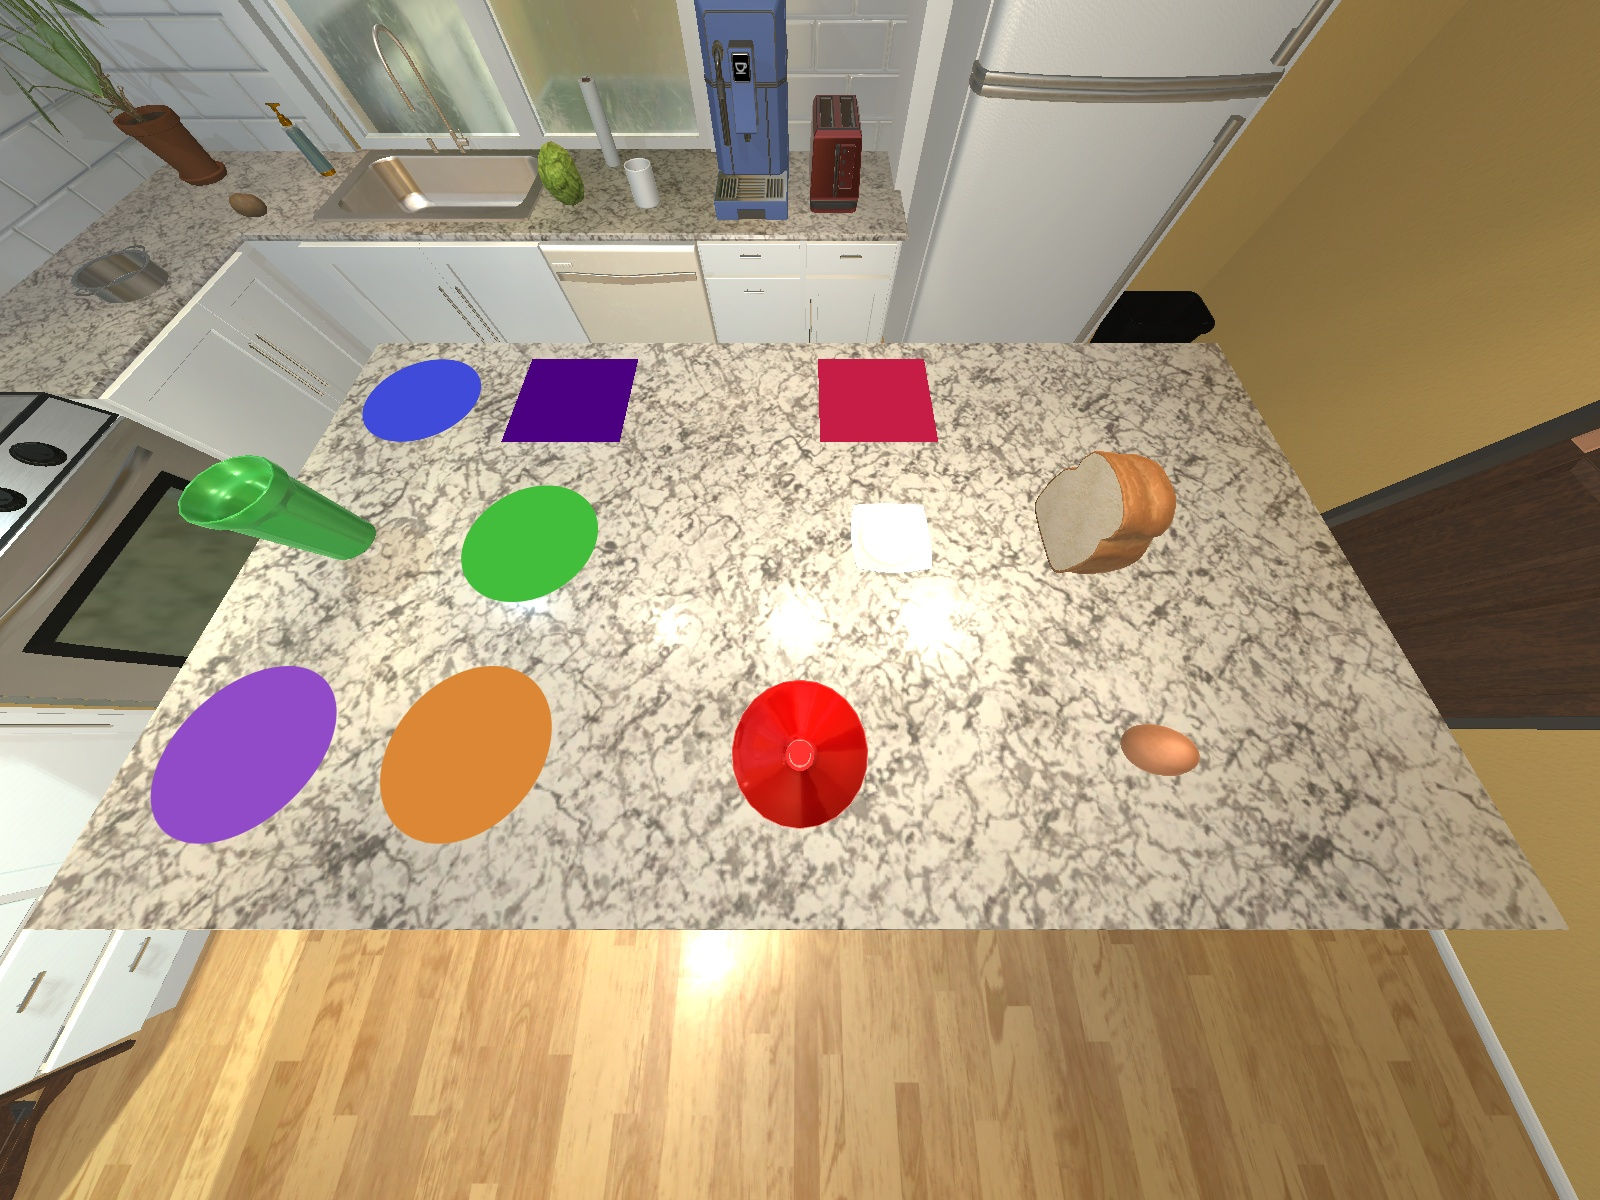
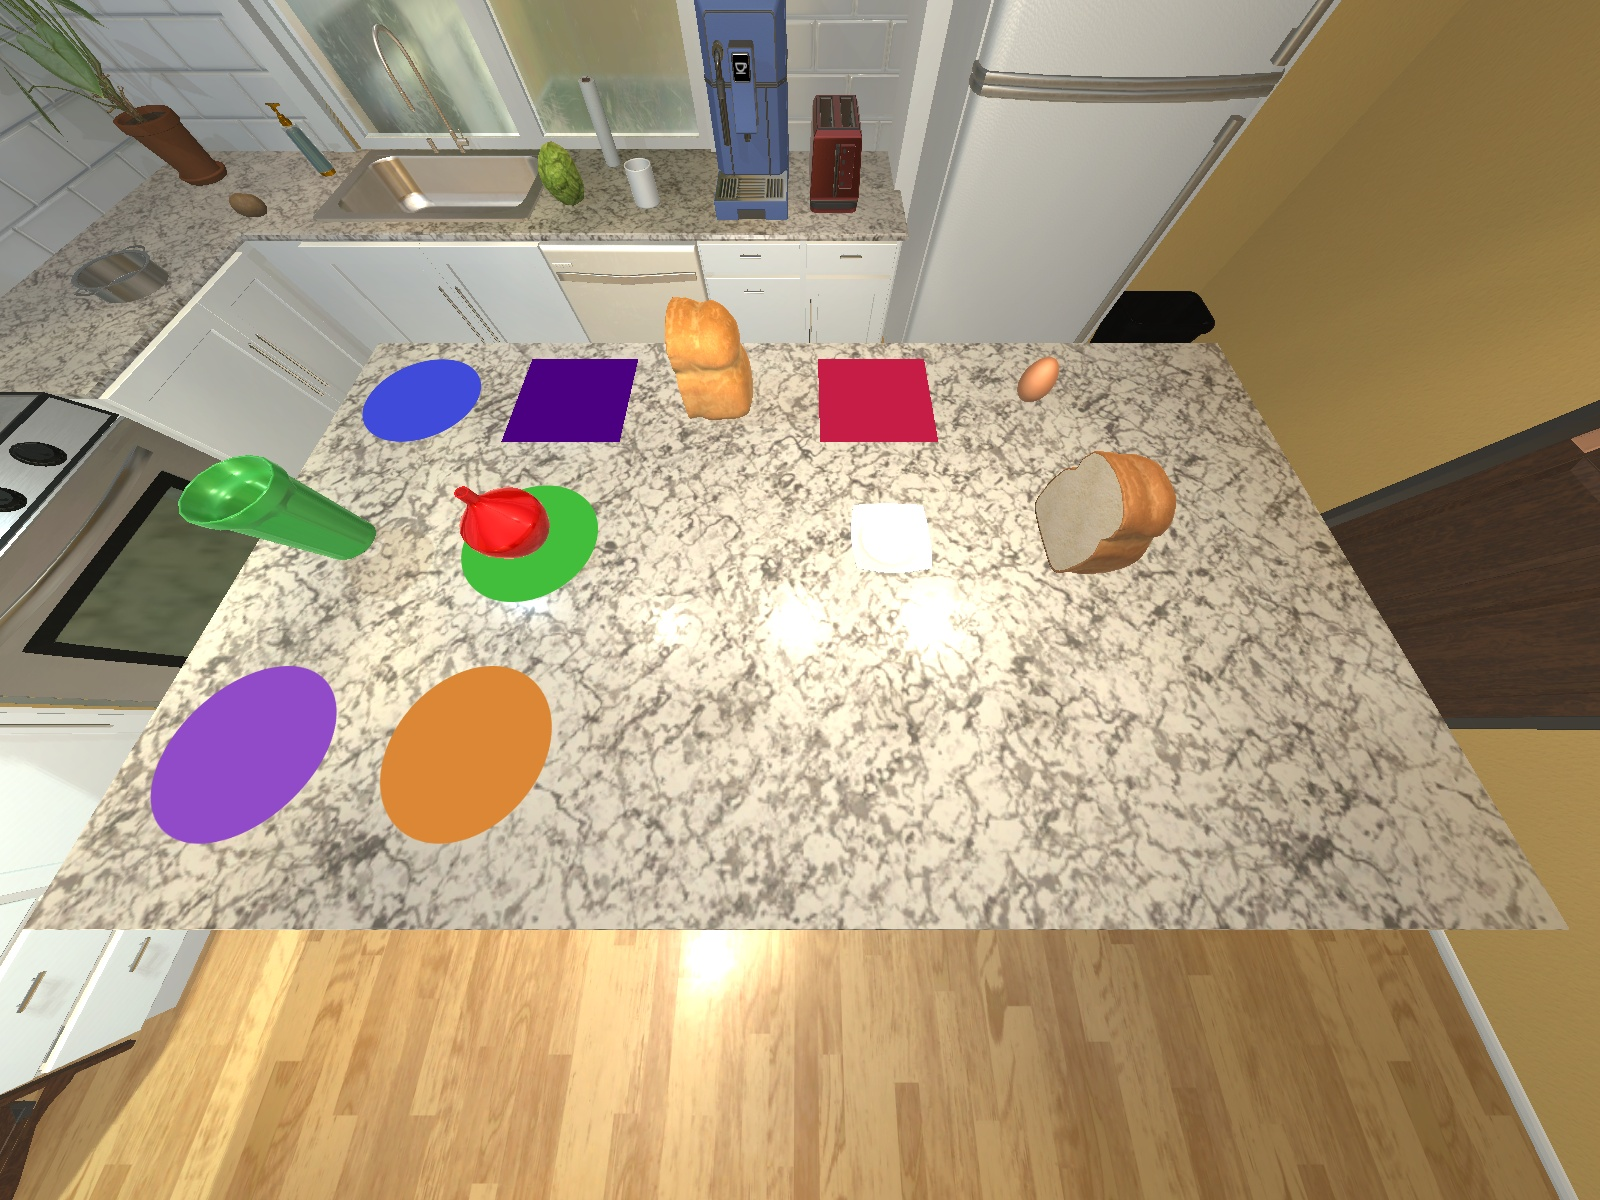
Implement slicing and update methods for placing assets at empty locations and hiding to reflect changes visually and in the grid memory

diff --git a/src/ithor/ithor_service.py b/src/ithor/ithor_service.py
@@ -1,5 +1,6 @@
 import os
 import re
+import time
 
 from ithor.utils.items import Items
 
@@ -18,6 +19,7 @@ class IthorService:
         # "\\done", "\\discard #8", "\\request #1", "\\put #3 on #V", "put #3 on #table"
 
         if "done" in command.lower():
+            time.sleep(10)
             self.follower_controller.stop()
             print("successfully stopped experiment")
         else:
@@ -33,6 +35,17 @@ class IthorService:
             elif "request" in command.lower():
                 self.follower_controller.place_asset_at_empty_location(item)
                 print(f"successfully requested {item}")
+            elif "slice" in command.lower():
+                sliced_item_slurk_id = "#" + str(
+                    int(re.findall("\d+", item_slurk_id)[0]) + 1
+                )
+                sliced_item = Items().get_name_by_slurkid(sliced_item_slurk_id)
+                assert (
+                    "Slice" in sliced_item
+                ), "The object denoted by this id can't be sliced. Try again with another!"
+                self.follower_controller.hide_asset(item)
+                self.follower_controller.place_asset_at_empty_location(sliced_item)
+                print(f"successfully sliced {item}")
             else:
                 # Pick up the specified item
                 self.follower_controller.pickup(item)

diff --git a/src/ithor/ithor_controller.py b/src/ithor/ithor_controller.py
@@ -205,14 +205,17 @@ class IthorController:
                 if y == 2 and (x == 2 or x == 3):
                     continue
                 if slot.is_empty():
+                    slot.place_object(name)
                     self.place_asset_at_location(name, x, y)
                     asset_placed = True
+                    print(f"{name} placed at {x}{y}")
 
     def place_object_on_mat(self, object_name, mat_name):
         grid = self.table.grid
         for x, column in enumerate(grid):
             for y, slot in enumerate(column):
                 if slot.mat == mat_name:
+                    slot.place_object(object_name)
                     self.place_asset_at_location(object_name, x, y)
 
     def save_img(self, fn):
@@ -258,6 +261,10 @@ class IthorController:
             position=pos,
             rotation={"x": 0, "y": 0, "z": 0},
         )
+        for column in self.table.grid:
+            for slot in column:
+                if slot.object == name:
+                    slot.remove_object()
 
     def stop(self):
         """

diff --git a/src/test_ithor.py b/src/test_ithor.py
@@ -1,6 +1,7 @@
 import json
 import os
 import sys
+import time
 
 basepath = os.path.dirname(os.path.dirname(os.path.abspath("")))
 if not basepath in sys.path:
@@ -71,11 +72,13 @@ print("*" * 20)
 
 commands = [
     "\\discard #6",
+    "\\slice #12",
     "\\request #16",
     "\\put #22 on #V",
     "\\put #22 on #table",
     "\\done",
 ]
+
 for c in commands:
     ithor_service.update_follower_ithor_scene(c)
     if "done" in c:
